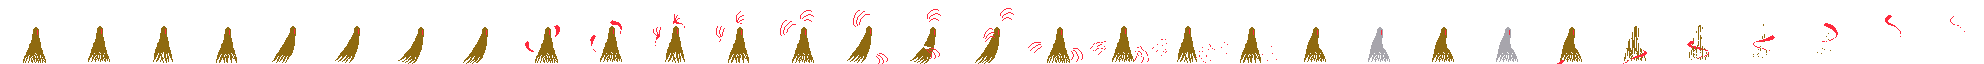
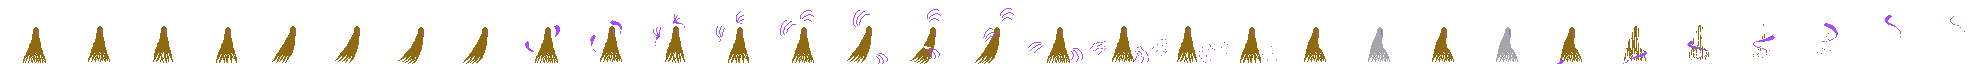
tune(enemies): a cyan eye on the rust monsters, a violet one on the gold

diff --git a/scripts/recolour_monsters.py b/scripts/recolour_monsters.py
@@ -20,8 +20,8 @@ BODY = "#181425"
 EYE = "#FF0044"
 # Each palette's body and eye.
 PALETTES = {
-    "rust": ("#7A2818", "#FFB84A"),
-    "gold": ("#8F6A10", "#FF2A3D"),
+    "rust": ("#7A2818", "#5CE6FF"),
+    "gold": ("#8F6A10", "#A64DFF"),
     "purple": ("#3E1A63", "#FF5CE1"),
 }
 

diff --git a/AGENTS.md b/AGENTS.md
@@ -245,7 +245,7 @@ Five more types of `enemies/enemy_types.yaml`, drawn from two packs and placed i
 - Their sheets are named `<type>_<action>`, as the Black Knight's are, and their one attack names its `clip` and `strike_frame`.
 - `sprite:` on a type is how its sheets are laid over its body — pixel scale, the empty rows above and below the figure, the height of the body's middle above the feet. The monsters have one; the older types still have theirs in `world::spawn_enemies`.
 - A type with a `<type>_shot` sheet fires that instead of the plain bolt, drawn at the type's `sprite.scale` (`combat/enemy_ai.rs`): the eye beast's void ball. A shot, like a blow, now plays its clip's follow-through out before the enemy moves again.
-- The four horror monsters each come in three more palettes, as types of their own: `<type>_rust` (brown-red, an amber eye), `<type>_gold` (dark gold, a red eye) and `<type>_purple` (dark purple, a pink eye). `scripts/recolour_monsters.py` (`just monsters`, needs ImageMagick) swaps the body and eye colours of the pack's sheets into a folder per palette under `enemies/horror/`, and its `PALETTES` table is where a palette is changed or added; the PNGs are committed. Their entries in `enemy_types.yaml` are copies of the type they are drawn from: a number changed on one should be changed on its three palettes too.
+- The four horror monsters each come in three more palettes, as types of their own: `<type>_rust` (brown-red, a cyan eye), `<type>_gold` (dark gold, a violet eye) and `<type>_purple` (dark purple, a pink eye). `scripts/recolour_monsters.py` (`just monsters`, needs ImageMagick) swaps the body and eye colours of the pack's sheets into a folder per palette under `enemies/horror/`, and its `PALETTES` table is where a palette is changed or added; the PNGs are committed. Their entries in `enemy_types.yaml` are copies of the type they are drawn from: a number changed on one should be changed on its three palettes too.
 - Nothing flies: the ghost and the eye beast walk the floor like any other enemy, the eye beast drawn a little above it.
 
 ### Art direction
